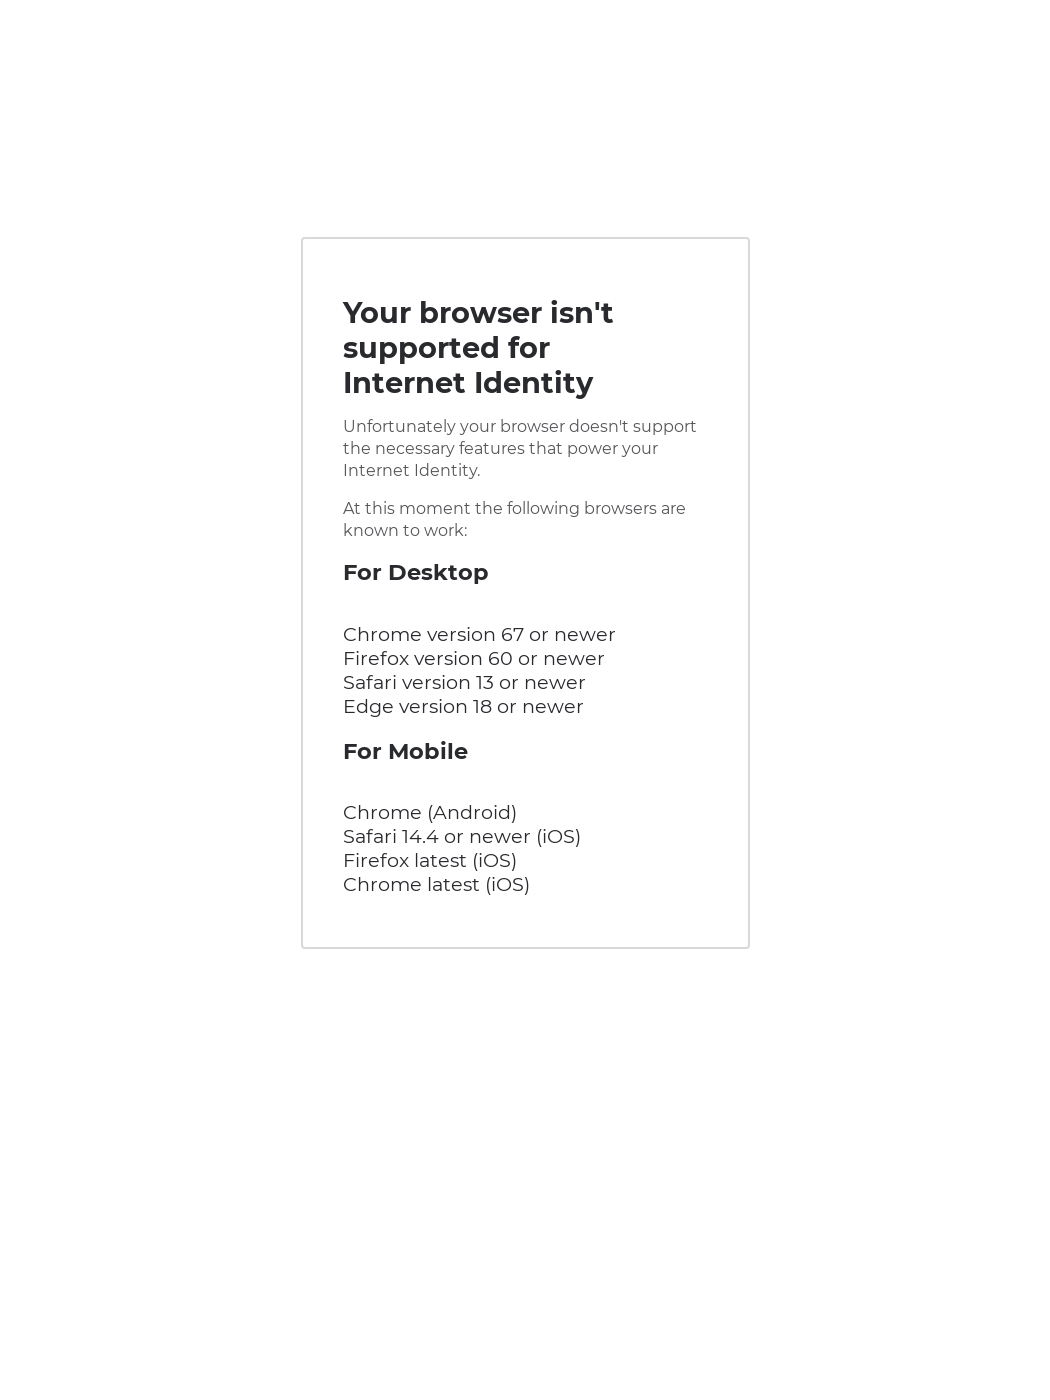
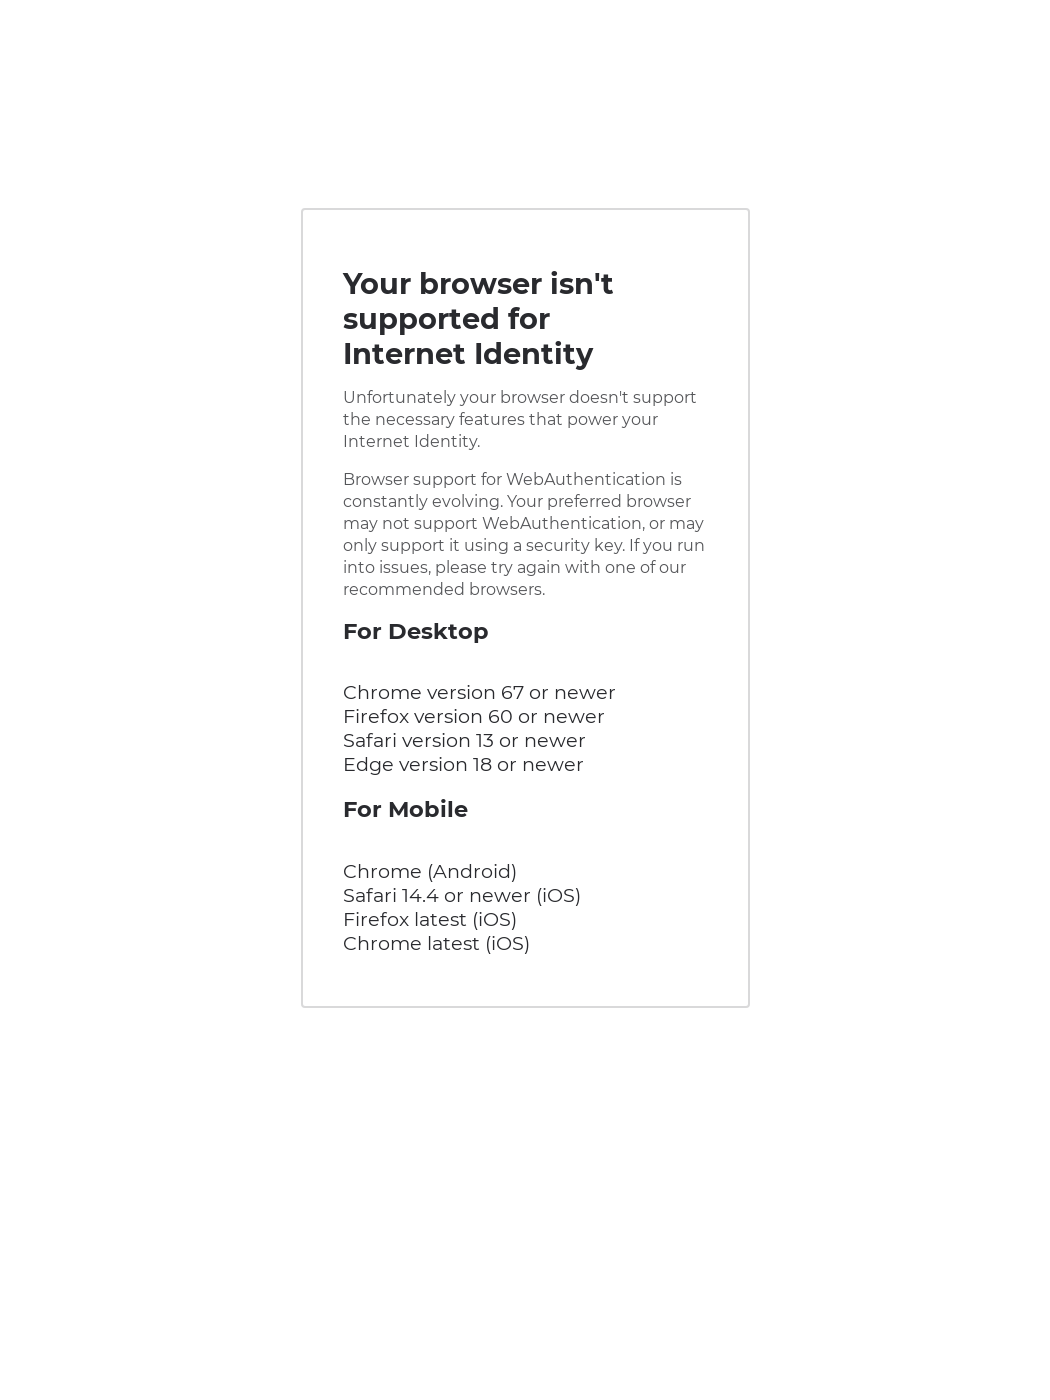
chore: list browser compatibility in about page (#287)
* pulling out and updating compatibility chart

* chore: adds browser compatibility to #about

* removing view override

* Updating frontend formatting

* Updating selenium screenshots

* Update src/frontend/src/components/compatibilityChart.ts

* Updating selenium screenshots

Changed region(s): [[0.3048, 0.1843, 0.6705, 0.6757]]

diff --git a/src/frontend/src/flows/compatibilityNotice.ts b/src/frontend/src/flows/compatibilityNotice.ts
@@ -1,4 +1,5 @@
 import { html, render } from "lit-html";
+import { compatibilityChart } from "../components/compatibilityChart";
 
 // Taken from: https://caniuse.com/?search=PublicKeyCredential
 const pageContent = html`
@@ -15,21 +16,7 @@ const pageContent = html`
       Unfortunately your browser doesn't support the necessary features that
       power your Internet Identity.
     </p>
-    <p>At this moment the following browsers are known to work:</p>
-    <h3>For Desktop</h3>
-    <ul>
-      <li>Chrome version 67 or newer</li>
-      <li>Firefox version 60 or newer</li>
-      <li>Safari version 13 or newer</li>
-      <li>Edge version 18 or newer</li>
-    </ul>
-    <h3>For Mobile</h3>
-    <ul>
-      <li>Chrome (Android)</li>
-      <li>Safari 14.4 or newer (iOS)</li>
-      <li>Firefox latest (iOS)</li>
-      <li>Chrome latest (iOS)</li>
-    </ul>
+    ${compatibilityChart}
   </div>
 `;
 

diff --git a/src/frontend/src/components/compatibilityChart.ts b/src/frontend/src/components/compatibilityChart.ts
@@ -1,0 +1,22 @@
+import { html } from "lit-html";
+
+export const compatibilityChart = html`<p>
+    Browser support for WebAuthentication is constantly evolving. Your preferred
+    browser may not support WebAuthentication, or may only support it using a
+    security key. If you run into issues, please try again with one of our
+    recommended browsers.
+  </p>
+  <h3>For Desktop</h3>
+  <ul>
+    <li>Chrome version 67 or newer</li>
+    <li>Firefox version 60 or newer</li>
+    <li>Safari version 13 or newer</li>
+    <li>Edge version 18 or newer</li>
+  </ul>
+  <h3>For Mobile</h3>
+  <ul>
+    <li>Chrome (Android)</li>
+    <li>Safari 14.4 or newer (iOS)</li>
+    <li>Firefox latest (iOS)</li>
+    <li>Chrome latest (iOS)</li>
+  </ul>`;

diff --git a/src/frontend/src/flows/about.ts b/src/frontend/src/flows/about.ts
@@ -1,4 +1,5 @@
 import { html, render } from "lit-html";
+import { compatibilityChart } from "../components/compatibilityChart";
 
 // Taken from: https://caniuse.com/?search=PublicKeyCredential
 const pageContent = html`
@@ -31,6 +32,8 @@ const pageContent = html`
       >
       for step-by-step directions.
     </p>
+    <h2>Compatibility</h2>
+    ${compatibilityChart}
   </div>
 `;
 
